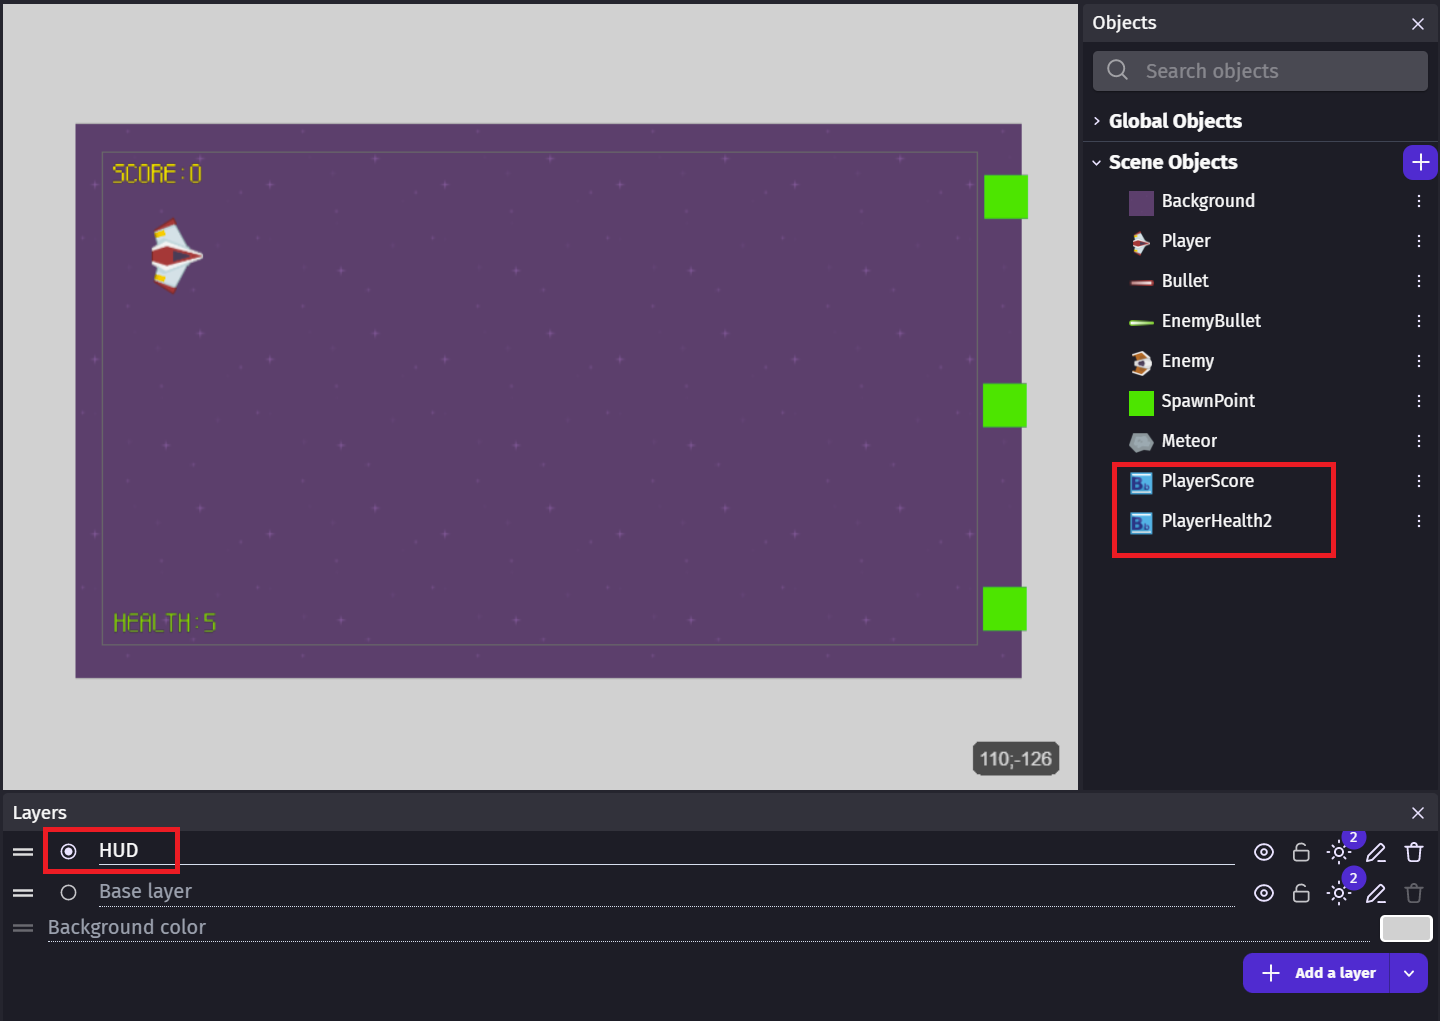
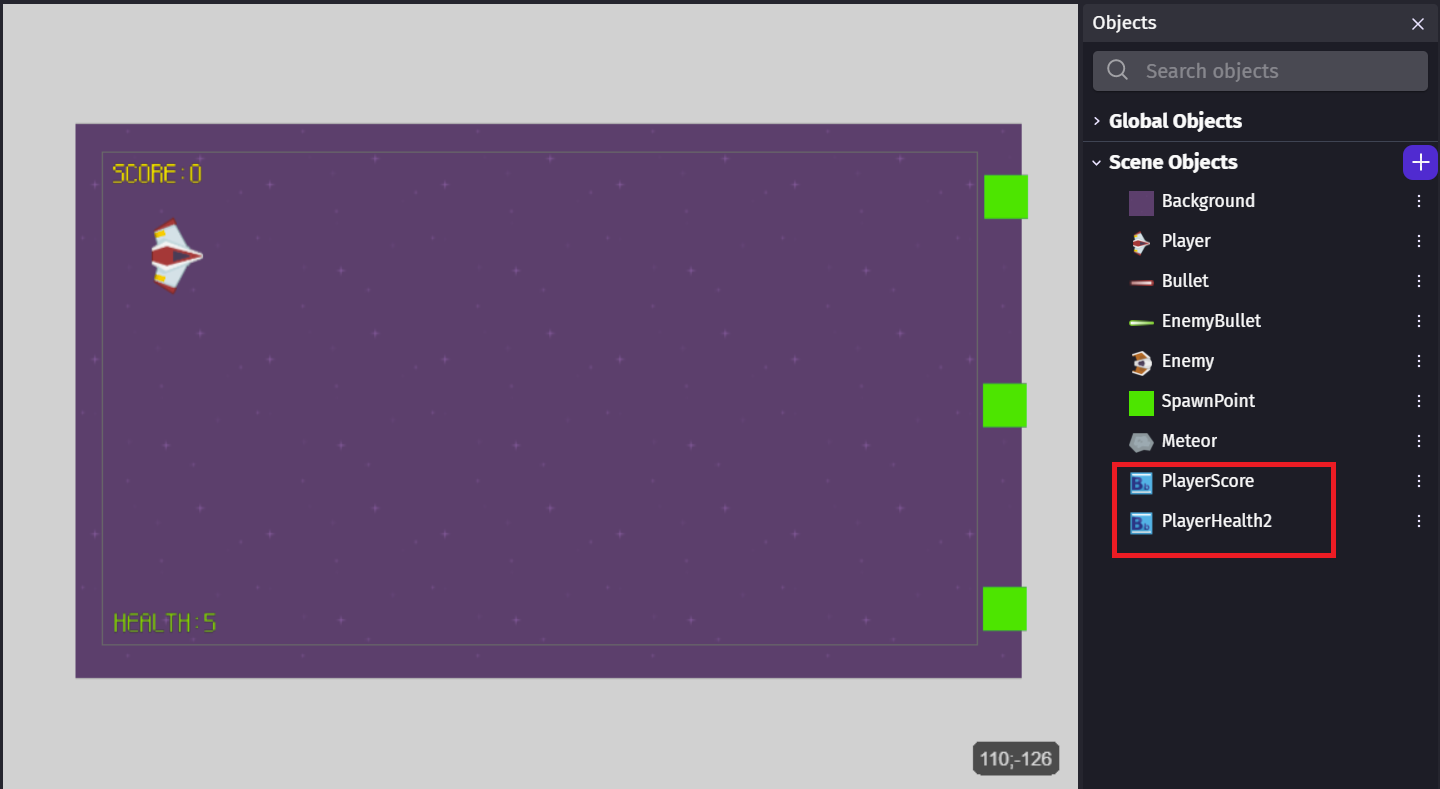
Simplify HUD lesson instructions
Remove the separate HUD layer setup section from lesson 3.5, renumber the remaining steps, and update the supporting screenshot to match the streamlined flow. The lesson now focuses on adding BBText objects, creating the global score variable, and binding HUD text to variables.

diff --git a/ict8/unit3/lesson5/3.5_index.html b/ict8/unit3/lesson5/3.5_index.html
@@ -26,28 +26,14 @@
             <h2>Overview</h2>
             <p>
               The Heads Up Display <strong>(HUD)</strong> is where you display always-visible information like <em>Score</em> and <em>Health</em>.
-              We’ll place these on a dedicated <strong>HUD layer</strong> so they render above gameplay and stay fixed on screen.
             </p>
             <figure class="img">
               <img src="/ict8/unit3/lesson5/01_HUD.png" alt="Example of HUD with Score (top-left) and Health (bottom-left)">
             </figure>
           </section>
-    
+
           <section class="card">
-            <h2>1) Create the HUD Layer</h2>
-            <ol>
-              <li>Open your <strong>Level 1</strong> scene and show the <strong>Layers Panel</strong>.</li>
-              <li><strong>Add new layer</strong> and rename it <code>HUD</code>.</li>
-              <li>Drag the <code>HUD</code> layer to the top so it draws above all other layers.</li>
-              <li>Make sure <code>HUD</code> is the active (selected) layer before adding HUD objects.</li>
-            </ol>
-            <figure class="img">
-              <img src="/ict8/unit3/lesson5/02_new_layer.png" alt="Layers panel with HUD layer on top">
-            </figure>
-          </section>
-    
-          <section class="card">
-            <h2>2) Add HUD Text Objects (BBText)</h2>
+            <h2>1) Add HUD Text Objects (BBText)</h2>
             <p>We’ll use <strong>BBText</strong> so we can format text and update it at runtime.</p>
             <h3>Score</h3>
             <ul>
@@ -78,7 +64,7 @@
           </section>
     
           <section class="card">
-            <h2>3) Add a Global Score Variable</h2>
+            <h2>2) Add a Global Score Variable</h2>
             <p>We’ll track score across scenes using a <strong>Global Variable</strong>:</p>
             <ol>
               <li>Open <strong>Project Manager → Project Settings → Global variables</strong>.</li>
@@ -91,7 +77,7 @@
           </section>
     
           <section class="card">
-            <h2>4) Display Text from Variables</h2>
+            <h2>3) Display Text from Variables</h2>
             <p>Add the following actions to your no conditions event at the top of your event sheet</p>
 
             <ul>
@@ -154,7 +140,6 @@
        <section class="card">
         <h3>Learning Goals</h3>
         <ul>
-            <li>Create and order layers; keep HUD above gameplay.</li>
             <li>Add <strong>BBText</strong> objects for Score and Health.</li>
             <li>Use a <strong>Global Variable</strong> (<code>PlayerScore</code>) for cross-level scoring.</li>
             <li>Bind text to variables with BBCode and update via events.</li>
@@ -165,7 +150,6 @@
         <section class="card">
         <h3>Tips</h3>
         <ul>
-            <li>Lock gameplay layers to avoid moving HUD by accident.</li>
             <li>Keep HUD text high-contrast; test at multiple resolutions.</li>
             <li>Group “display” actions under a comment at the top of events for clarity.</li>
         </ul>
